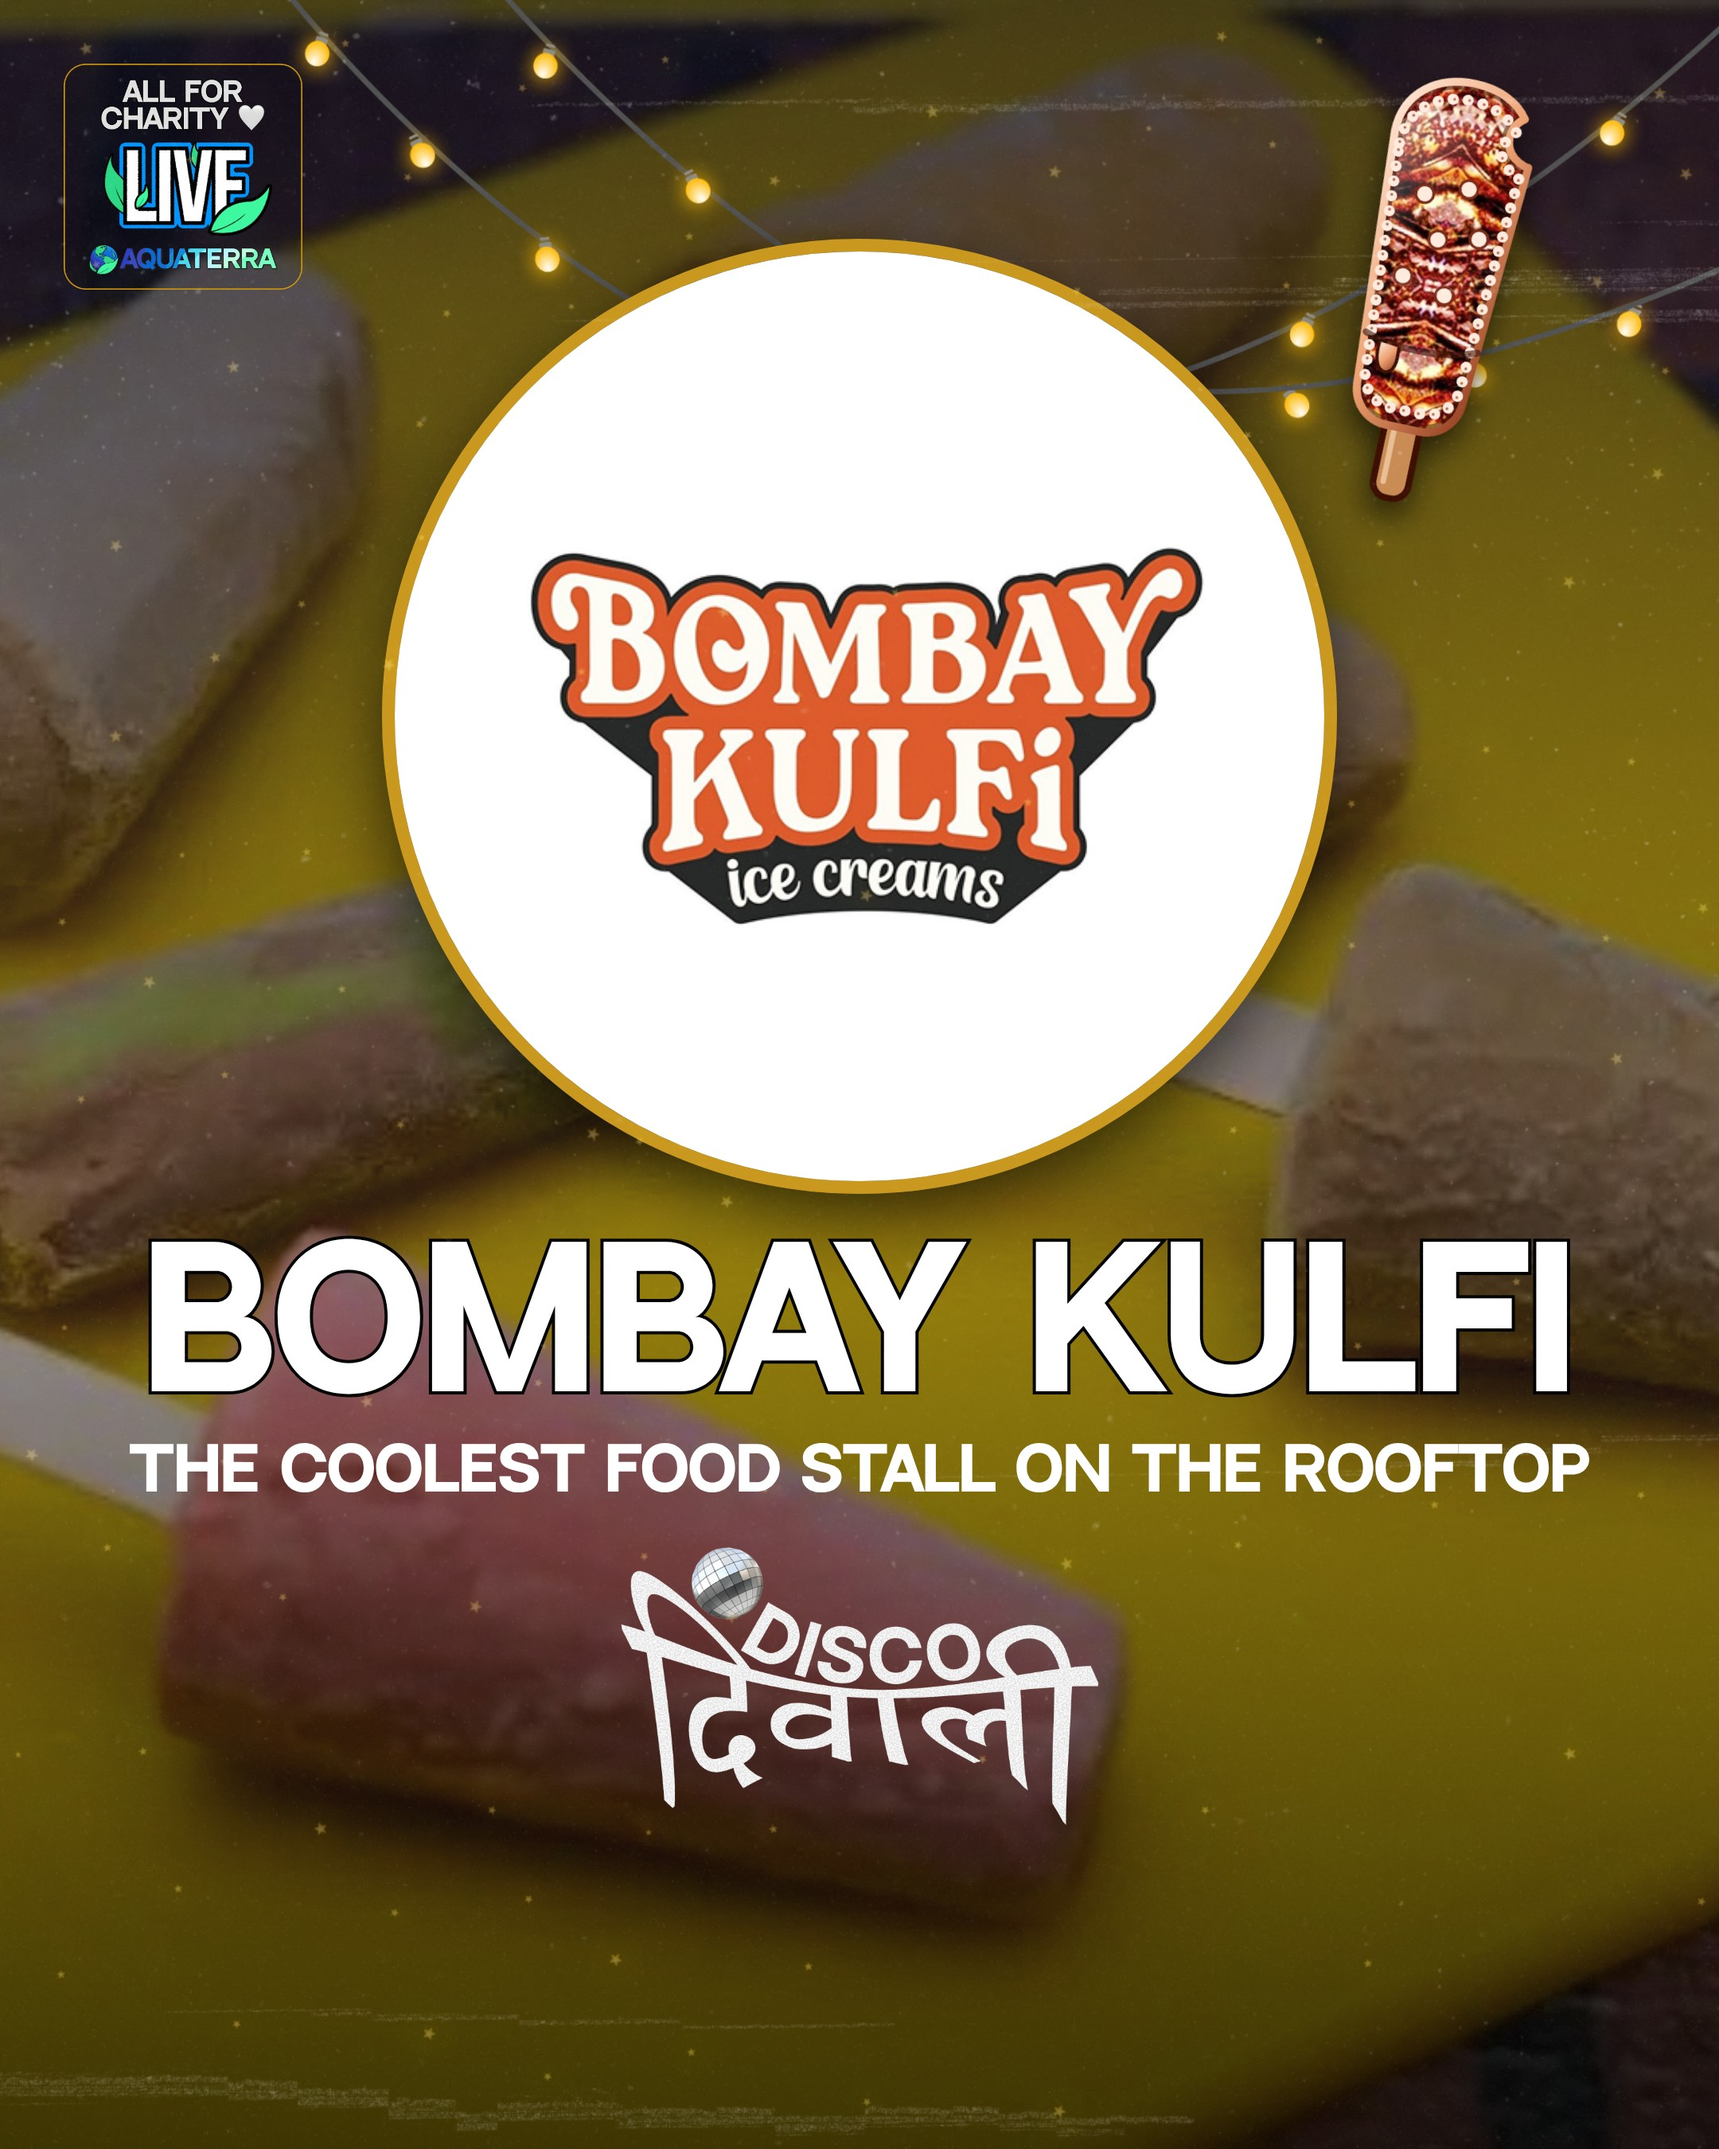
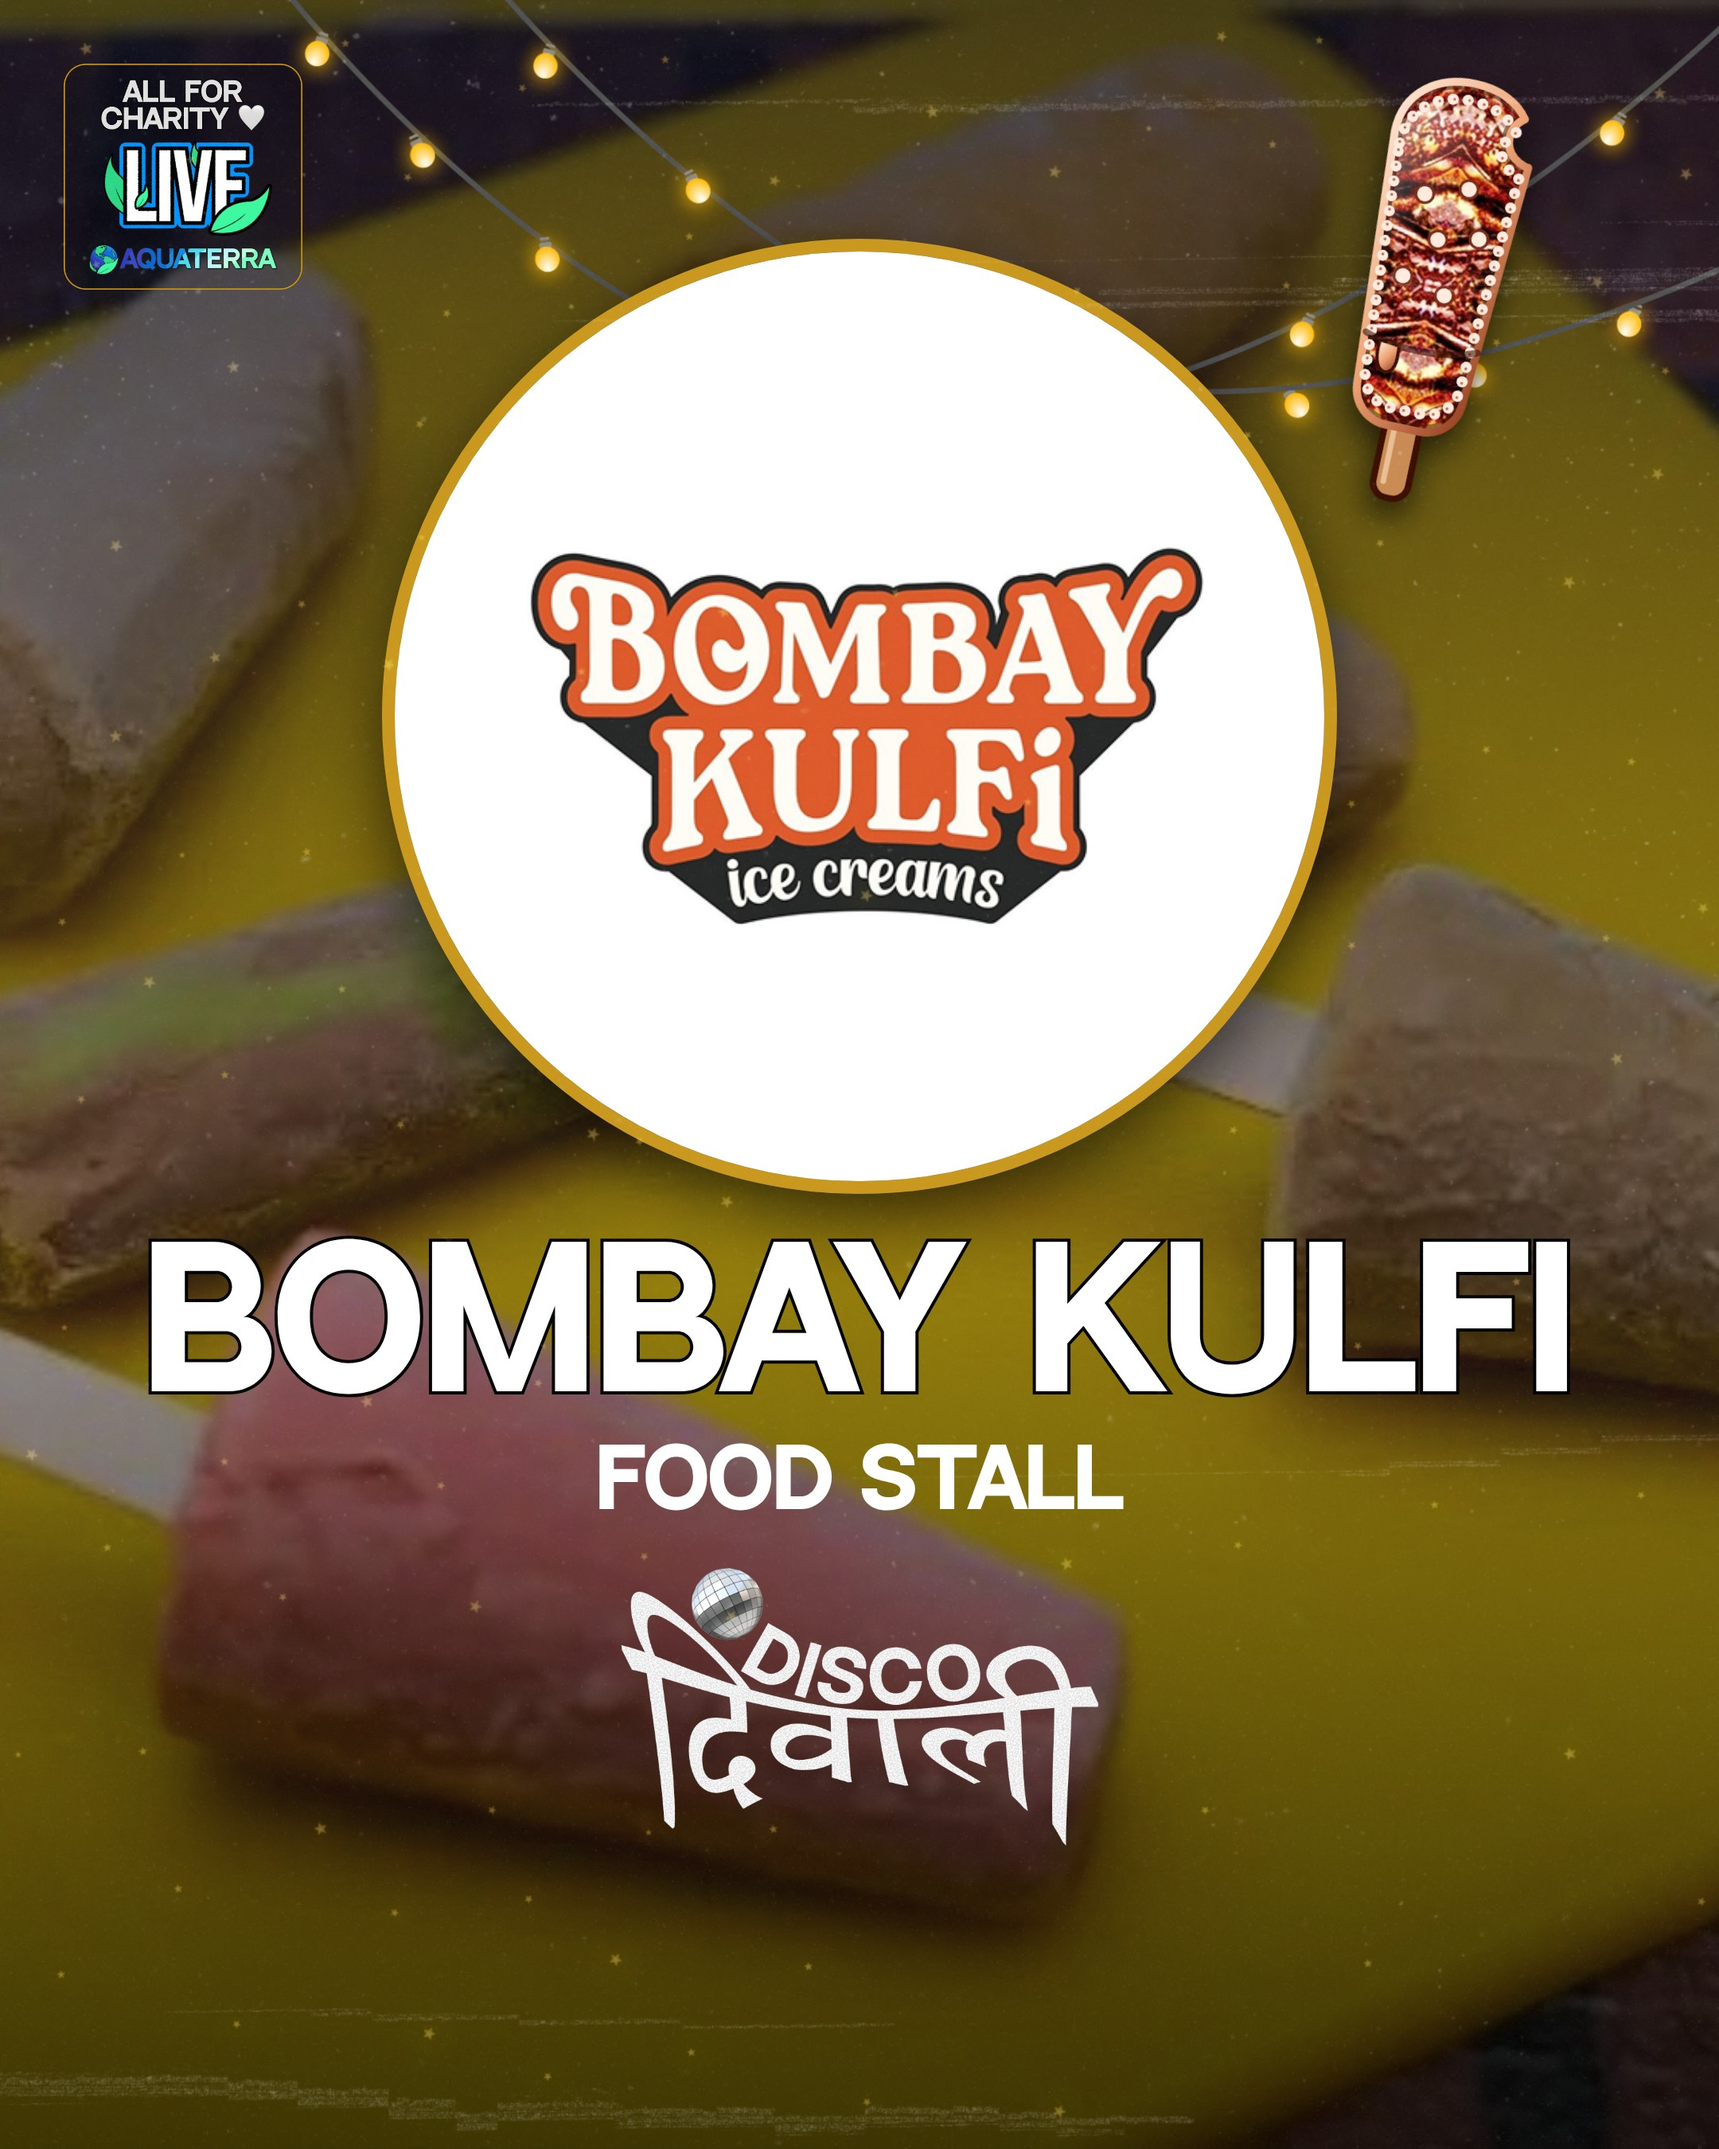
Bombay Kulfi: tagline is just FOOD STALL
Claude-Session: https://claude.ai/code/session_01Hjb3YdETYzUX9KQBuy3LJ5

Changed region(s): [[0.062, 0.6533, 0.9306, 0.8711]]

diff --git a/scratchpad/dd_kulfi.py b/scratchpad/dd_kulfi.py
@@ -46,8 +46,8 @@ def poster(H):
                      f'text-transform:uppercase;white-space:nowrap;{STROKE if stroke else "color:#fff;"}z-index:20">{txt}</div>'); els.append((tag, 40, top, 1000, h))
     line("head", "Bombay Kulfi", hy, hs, 700, hs)
     t1 = hy + hs + 14
-    line("tag1", "The coolest food stall on the rooftop", t1, 37, 700, 41, stroke=False)
-    y = t1 + 41 + (30 if story else 26)
+    line("tag1", "Food stall", t1, 50, 700, 54, stroke=False)
+    y = t1 + 54 + (30 if story else 26)
     # footer lockup, with ball
     vw = 260 if story else 300
     t = vw / 1717; vh = round(991 * t); vx = (W - vw) // 2
